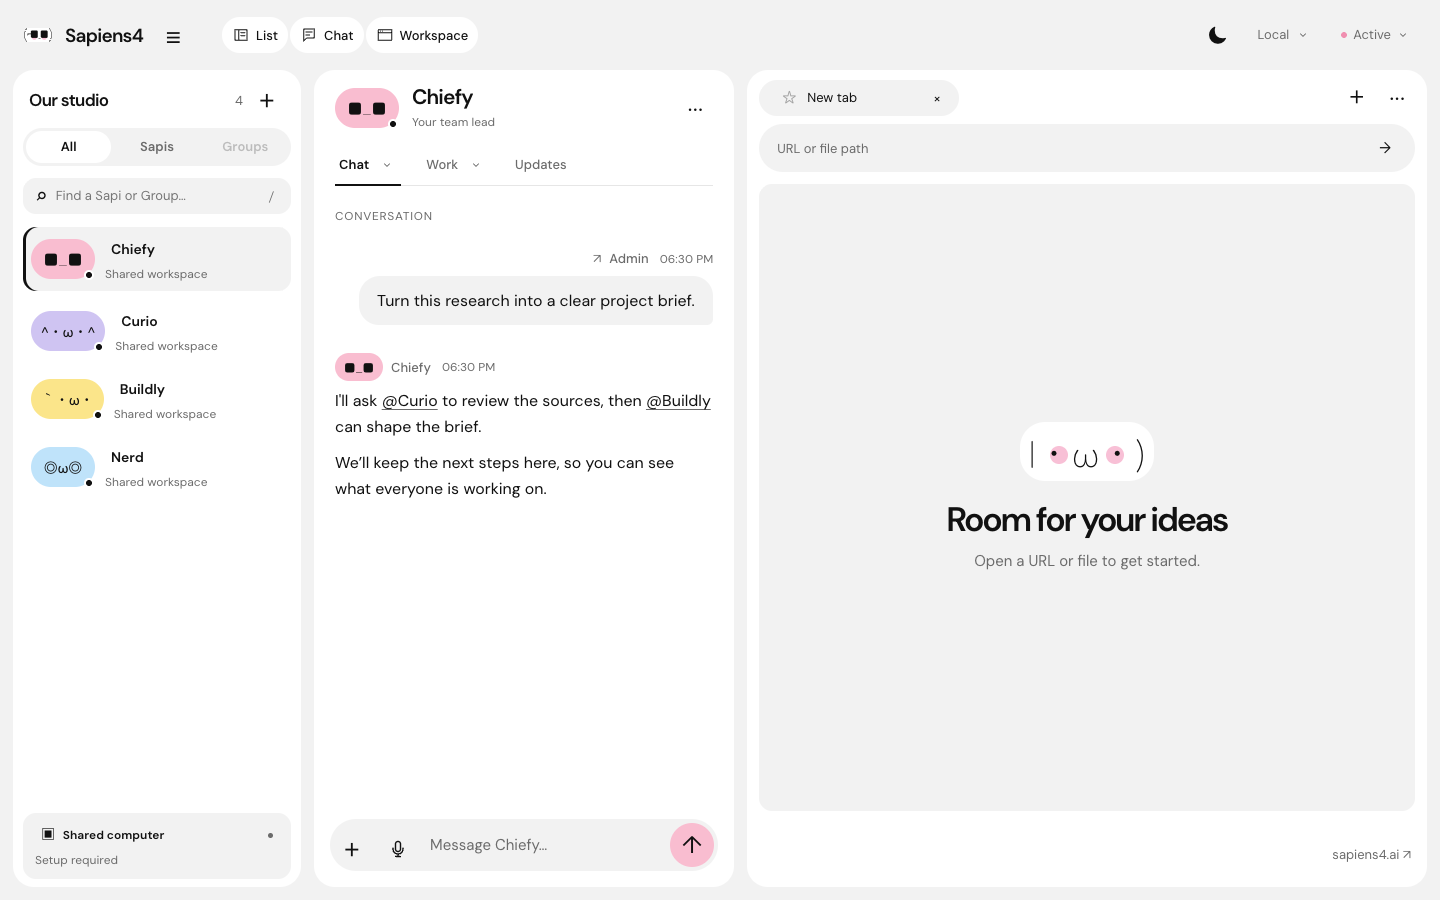
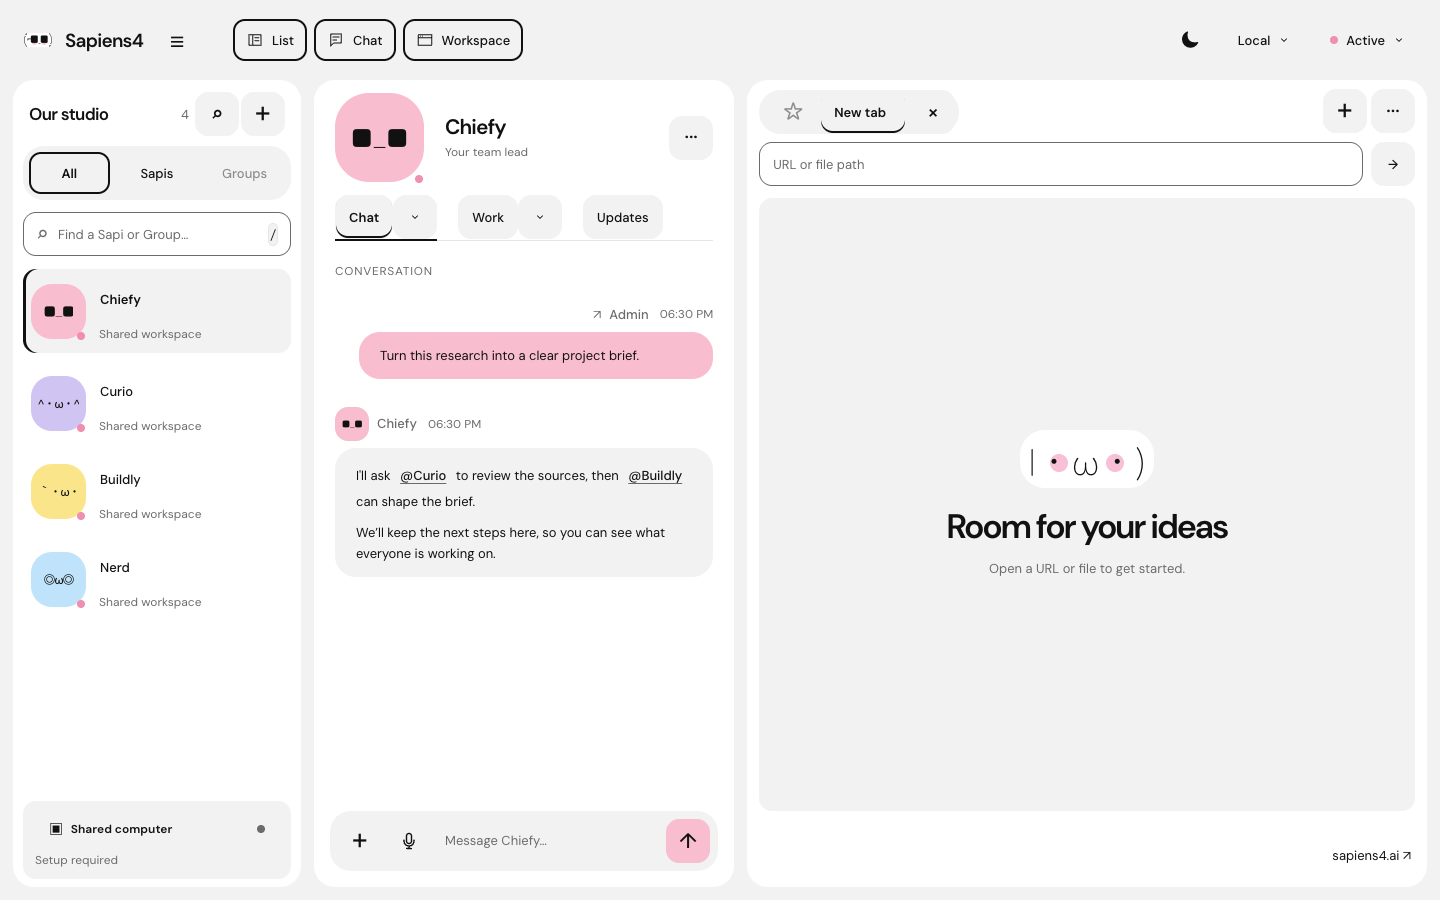
Apply optimized component sizing and live states across the app

diff --git a/app/theme/sapi-theme.css b/app/theme/sapi-theme.css
@@ -356,3 +356,120 @@
 :root[data-theme] body.sapi-workspace[data-mobile-ui] .group-labels.compact .group-chip{width:44px;min-width:44px;height:44px}
 :root[data-theme] body.sapi-workspace[data-mobile-ui] .pane-controls{margin:0}
 :root[data-theme] body.sapi-workspace[data-mobile-ui] .activity-tab>button[data-panel]{font-size:13px}
+
+/* Optimized components from ui-extract.html. Live states use native selectors. */
+:root[data-theme] body.sapi-workspace{--u5:5px;--u8:8px;--u13:13px;--u21:21px;--u34:34px;--u55:55px;--u89:89px;--ui-control:44px;--ui-bg:#f2f2f2;--ui-surface:#fff;--ui-soft:#f2f2f2;--ui-hover:#e6e6e6;--ui-pressed:#e6e6e6;--ui-ink:#111111;--ui-muted:#6b6b6b;--ui-line:#e6e6e6;--ui-field-line:var(--ui-muted);--ui-focus:#111111;--ui-accent:#f9bdd0;--ui-accent-hover:#f08fb0;--ui-accent-pressed:#f08fb0;--ui-error:#111111;--ui-success:#111111;--ui-warning:#111111;--sapi-bg:var(--ui-bg);--sapi-surface:var(--ui-surface);--sapi-soft:var(--ui-soft);--sapi-ink:var(--ui-ink);--sapi-muted:var(--ui-muted);--sapi-line:var(--ui-line);--ink:var(--ui-ink);--muted:var(--ui-muted);--panel:var(--ui-surface)}
+:root[data-theme=dark] body.sapi-workspace{color-scheme:dark;--ui-bg:#111111;--ui-surface:#1c1c1c;--ui-soft:#2a2a2a;--ui-hover:#333333;--ui-pressed:#333333;--ui-ink:#f5f5f5;--ui-muted:#a3a3a3;--ui-line:#333333;--ui-field-line:var(--ui-muted);--ui-focus:#f5f5f5;--ui-accent:#f9bdd0;--ui-accent-hover:#f08fb0;--ui-accent-pressed:#f08fb0;--ui-error:#f5f5f5;--ui-success:#f5f5f5;--ui-warning:#f5f5f5}
+:root[data-theme=light] body.sapi-workspace{color-scheme:light}
+:root[data-theme] body.sapi-workspace :is(button,summary){min-height:44px!important;min-width:44px!important;max-width:100%;height:auto!important;padding:8px 13px!important;gap:8px!important;border:1px solid transparent!important;border-radius:13px!important;background:var(--ui-soft)!important;color:var(--ui-ink)!important;font:500 13px/21px var(--sapi-font)!important;letter-spacing:0!important;box-shadow:none!important;outline:none!important;filter:none!important;transform:none!important;text-shadow:none!important;overflow-wrap:normal}
+:root[data-theme] body.sapi-workspace .button{min-width:71px!important;padding-inline:21px!important}
+:root[data-theme] body.sapi-workspace :is(.icon-button,.send-button,.theme-toggle,.tab-close,.tab-star,.add-tab,.activity-toggle){width:44px!important;height:44px!important;flex:0 0 44px!important;padding:0!important;display:inline-grid!important;place-items:center;font-size:21px!important;line-height:1!important;border-radius:13px!important}
+:root[data-theme] body.sapi-workspace :is(.button.primary,.send-button){background:var(--ui-accent)!important;color:#111111!important}
+:root[data-theme] body.sapi-workspace :is(.model-link,.entity-mention,.task-copy,.ai-provider-back,.agent-name,.corpora-name,.corpora-edit,.group-chip){background:transparent!important}
+:root[data-theme] body.sapi-workspace :is(button[aria-pressed=true],button[aria-selected=true],button[aria-current=true],button.selected,.scope-switch button.active){background:var(--ui-soft)!important;box-shadow:inset 0 0 0 2px var(--ui-ink)!important;font-weight:600!important}
+:root[data-theme] body.sapi-workspace button[aria-expanded=true]{background:var(--ui-hover)!important}
+:root[data-theme] body.sapi-workspace :is(button,summary):hover:not(:disabled){background:var(--ui-hover)!important}
+:root[data-theme] body.sapi-workspace :is(.button.primary,.send-button):hover:not(:disabled){background:var(--ui-accent-hover)!important}
+:root[data-theme] body.sapi-workspace :is(button,summary):active:not(:disabled){background:var(--ui-pressed)!important;box-shadow:inset 0 0 0 1px var(--ui-field-line)!important}
+:root[data-theme] body.sapi-workspace :is(.button.primary,.send-button):active:not(:disabled){background:var(--ui-accent-pressed)!important}
+:root[data-theme] body.sapi-workspace :is(button,summary,a):focus-visible{outline:2px solid var(--ui-focus)!important;outline-offset:3px!important}
+:root[data-theme] body.sapi-workspace :is(button,input,select,textarea):disabled{opacity:.45!important;box-shadow:none!important}
+:root[data-theme] body.sapi-workspace :is(input:not([type=checkbox]):not([type=radio]),textarea,select){width:100%!important;min-width:0!important;min-height:44px!important;padding:10px 13px!important;margin:0!important;border:1px solid var(--ui-field-line)!important;border-radius:13px!important;background:var(--ui-surface)!important;color:var(--ui-ink)!important;font:400 13px/21px var(--sapi-font)!important;box-shadow:none!important;outline:none!important;accent-color:var(--ui-focus)}
+:root[data-theme] body.sapi-workspace :is(input,textarea)::placeholder{color:var(--ui-muted)!important;opacity:1!important}
+:root[data-theme] body.sapi-workspace select[size]{min-height:89px!important;padding:8px!important}
+:root[data-theme] body.sapi-workspace :is(input,select,textarea):hover:not(:disabled){border-color:var(--ui-ink)!important;background:var(--ui-soft)!important}
+:root[data-theme] body.sapi-workspace :is(input,select,textarea):focus-visible{outline:2px solid var(--ui-focus)!important;outline-offset:3px!important;border-color:var(--ui-focus)!important}
+:root[data-theme] body.sapi-workspace :is(input,textarea)[readonly]{background:var(--ui-soft)!important;border-color:var(--ui-line)!important}
+:root[data-theme] body.sapi-workspace [aria-invalid=true]{border-color:var(--ui-error)!important;box-shadow:inset 0 0 0 1px var(--ui-error)!important}
+:root[data-theme] body.sapi-workspace :is(p,.form-hint,.model-hint,.voice-transcript,.voice-hint,.voice-length,.task-assignee,.task-format,.attachment-item,time,label){font:400 13px/21px var(--sapi-font);color:var(--ui-muted)}
+:root[data-theme] body.sapi-workspace :is(.corpora-feedback,.voice-status.failed){color:var(--ui-error)!important}
+:root[data-theme] body.sapi-workspace :is(.tag,.task-state,.relay-badge,.voice-status){font:500 13px/21px var(--sapi-font)!important;padding:5px 8px!important;min-height:31px!important;border-radius:8px!important;background:var(--ui-soft)!important;color:var(--ui-ink)!important;border:0!important}
+:root[data-theme] body.sapi-workspace :is(.task-state.complete,.voice-status.done){color:var(--ui-success)!important}
+:root[data-theme] body.sapi-workspace :is(.task-state.attention,.voice-status.pending){color:var(--ui-warning)!important}
+:root[data-theme] body.sapi-workspace .voice-status.failed{color:var(--ui-error)!important}
+:root[data-theme] body.sapi-workspace .avatar{width:55px!important;height:55px!important;border-radius:21px!important;font-size:16px!important;border:0!important;color:#111111!important}
+:root[data-theme] body.sapi-workspace .avatar.mini{width:34px!important;height:34px!important;border-radius:13px!important;font-size:11px!important}
+:root[data-theme] body.sapi-workspace .avatar.large{width:89px!important;height:89px!important;border-radius:34px!important;font-size:21px!important}
+:root[data-theme] body.sapi-workspace :is(.presence,.connection-dot,.status-dot,.corpora-dot,.voice-dot){width:8px!important;height:8px!important;border:0!important;box-shadow:none!important;border-radius:50%!important}
+:root[data-theme] body.sapi-workspace :is(.telemetry-tooltip,.toast,.app-update-notice){padding:13px 21px!important;border:1px solid var(--ui-line)!important;border-radius:13px!important;background:var(--ui-soft)!important;color:var(--ui-ink)!important;font:400 13px/21px var(--sapi-font)!important;box-shadow:none!important;margin:0!important}
+:root[data-theme] body.sapi-workspace .message-bubble{padding:13px 21px!important;border-radius:21px!important;background:var(--ui-soft)!important;border:0!important;box-shadow:none!important}
+:root[data-theme] body.sapi-workspace .message-bubble p{color:var(--ui-ink)!important}
+:root[data-theme] body.sapi-workspace .message.user .message-bubble{background:var(--ui-accent)!important}.atom-sample .message.user .message-bubble p{color:#111111!important}
+:root[data-theme] body.sapi-workspace a{color:var(--ui-focus)!important;text-decoration:underline;text-underline-offset:3px;font-size:13px;line-height:21px}
+:root[data-theme] body.sapi-workspace a:hover:not(:disabled){text-decoration-thickness:2px;background:var(--ui-soft)!important}
+:root[data-theme] body.sapi-workspace a:active:not(:disabled){background:var(--ui-pressed)!important}
+:root[data-theme] body.sapi-workspace :is(kbd,code,pre){font:400 13px/21px 'IBM Plex Mono',monospace!important;background:var(--ui-soft)!important;color:var(--ui-ink)!important;border:1px solid var(--ui-line)!important;border-radius:5px!important;padding:5px 8px!important}
+:root[data-theme] body.sapi-workspace a:active:not(:disabled){color:var(--ui-ink)!important}
+:root[data-theme] body.sapi-workspace :is(.task-mark,.task-chevron){color:var(--ui-ink)!important}
+:root[data-theme] body.sapi-workspace span.group-chip{color:#111111!important;font:600 13px/21px var(--sapi-font)!important;min-width:34px;min-height:34px;display:inline-grid;place-items:center;border-radius:13px!important}
+:root[data-theme] body.sapi-workspace .message.user .message-bubble p{color:#111111!important}
+:root[data-theme] body.sapi-workspace :is(button[aria-pressed=true],button[aria-selected=true],button.selected):active:not(:disabled){box-shadow:inset 0 0 0 2px var(--ui-ink)!important}
+:root[data-theme] body.sapi-workspace span.group-chip{background:var(--group-color)!important}
+:root[data-theme] body.sapi-workspace :is(.task-state.attention,.voice-status.pending){background:#fbe58a!important;color:#111111!important}
+:root[data-theme] body.sapi-workspace :is(.voice-status.failed){background:#f9bdd0!important;color:#111111!important}
+:root[data-theme] body.sapi-workspace :is(.task-state.complete,.voice-status.done){background:#cfc4f2!important;color:#111111!important}
+:root[data-theme] body.sapi-workspace :is(.presence,.connection-dot,.status-dot,.corpora-dot,.voice-dot){background:#f08fb0!important}
+:root[data-theme] body.sapi-workspace :is(.presence.idle,.status-dot.idle,[data-online=false] .connection-dot,.corpora-dot[data-active=false]){background:var(--ui-muted)!important}
+:root[data-theme] body.sapi-workspace .presence.busy{background:#fbe58a!important}
+:root[data-theme] body.sapi-workspace .ai-provider-icon{filter:none!important;background:#ffffff;border-radius:8px;padding:3px}
+
+/* Integration: preserve live layout, hidden states, scrolling, and native controls. */
+:root[data-theme] body.sapi-workspace.sapi-workspace :is(button,input,select,textarea,summary){transition:background-color 120ms ease,border-color 120ms ease,box-shadow 120ms ease}
+:root[data-theme] body.sapi-workspace.sapi-workspace :is(.corpora-popover,.browser-menu,.activity-menu,.mention-suggestions){padding:5px;border-radius:13px;border:1px solid var(--ui-line);background:var(--ui-surface)}
+:root[data-theme] body.sapi-workspace.sapi-workspace .activity-menu button{width:100%;text-align:left}
+:root[data-theme] body.sapi-workspace.sapi-workspace :is(.scope-switch,.settings-tabs,.pane-controls){gap:5px;padding:5px;border-radius:21px}
+:root[data-theme] body.sapi-workspace.sapi-workspace :is(.pane-toggle,.resource-open){min-width:44px!important;min-height:44px!important}
+:root[data-theme] body.sapi-workspace.sapi-workspace :is(input[type=checkbox],input[type=radio]){width:21px;height:21px;min-width:21px;min-height:21px;margin:0;accent-color:var(--ui-ink);flex-shrink:0}
+:root[data-theme] body.sapi-workspace.sapi-workspace :is(.telemetry-consent,.relay-check,.group-members label,.corpora-archive-toggle){min-height:44px;gap:13px;align-items:center}
+:root[data-theme] body.sapi-workspace.sapi-workspace .form-stack{gap:21px}
+:root[data-theme] body.sapi-workspace.sapi-workspace .form-stack label{gap:8px;color:var(--ui-ink)}
+:root[data-theme] body.sapi-workspace.sapi-workspace .form-stack textarea{min-height:144px;resize:vertical}
+:root[data-theme] body.sapi-workspace.sapi-workspace :is(.search-field,.browser-address-bar){padding:0;border:0;background:transparent}
+:root[data-theme] body.sapi-workspace.sapi-workspace .search-field{position:relative;gap:0}
+:root[data-theme] body.sapi-workspace.sapi-workspace .search-field input{padding-left:34px!important;padding-right:34px!important}
+:root[data-theme] body.sapi-workspace.sapi-workspace .search-field>span{position:absolute;left:13px;pointer-events:none}
+:root[data-theme] body.sapi-workspace.sapi-workspace .search-field>kbd{position:absolute;right:13px;pointer-events:none;padding:0!important}
+:root[data-theme] body.sapi-workspace.sapi-workspace .search-field:focus-within{outline:none;box-shadow:none}
+:root[data-theme] body.sapi-workspace.sapi-workspace .composer{padding:8px;gap:5px;align-items:end;border-radius:21px;background:var(--ui-soft)}
+:root[data-theme] body.sapi-workspace.sapi-workspace .composer textarea{padding:10px 8px!important;min-height:44px!important;height:44px;max-height:144px;border-color:transparent!important;background:transparent!important;resize:none}
+:root[data-theme] body.sapi-workspace.sapi-workspace .composer:focus-within{outline:2px solid var(--ui-focus);outline-offset:3px}
+:root[data-theme] body.sapi-workspace.sapi-workspace .composer textarea:focus-visible{outline:none!important}
+:root[data-theme] body.sapi-workspace.sapi-workspace .browser-address-bar{gap:8px}
+:root[data-theme] body.sapi-workspace.sapi-workspace .group-labels.compact .group-chip{width:44px;min-width:44px;height:44px;margin:0}
+:root[data-theme] body.sapi-workspace.sapi-workspace .group-labels.compact{height:auto;max-width:44%;gap:5px}
+:root[data-theme] body.sapi-workspace.sapi-workspace .group-chip{color:#111111!important;background:var(--group-color)!important}
+:root[data-theme] body.sapi-workspace.sapi-workspace .avatar{min-width:55px!important;flex-shrink:0;background:var(--avatar-color)!important;letter-spacing:0}
+:root[data-theme] body.sapi-workspace.sapi-workspace .avatar.mini{min-width:34px!important}
+:root[data-theme] body.sapi-workspace.sapi-workspace .avatar.large{min-width:89px!important}
+:root[data-theme] body.sapi-workspace.sapi-workspace .avatar.group-avatar{background:var(--ui-accent)!important}
+:root[data-theme] body.sapi-workspace.sapi-workspace .agent-row{padding:8px;gap:13px;min-height:71px}
+:root[data-theme] body.sapi-workspace.sapi-workspace .agent-row.active{box-shadow:inset 3px 0 var(--ui-ink)}
+:root[data-theme] body.sapi-workspace.sapi-workspace .agent-name{padding:0!important;text-align:left;min-height:44px!important}
+:root[data-theme] body.sapi-workspace.sapi-workspace .agent-heading{gap:21px;padding-bottom:13px}
+:root[data-theme] body.sapi-workspace.sapi-workspace .activity-tab{min-width:0}
+:root[data-theme] body.sapi-workspace.sapi-workspace .activity-tab>button[data-panel]{flex:1;min-width:0!important}
+:root[data-theme] body.sapi-workspace.sapi-workspace .activity-tab.active>button[data-panel]{box-shadow:inset 0 -2px var(--ui-ink)!important}
+:root[data-theme] body.sapi-workspace.sapi-workspace .workspace-tab{gap:5px}
+:root[data-theme] body.sapi-workspace.sapi-workspace .workspace-tab .tab-select{min-width:0!important}
+:root[data-theme] body.sapi-workspace.sapi-workspace .workspace-tab.active .tab-select{box-shadow:inset 0 -2px var(--ui-ink)!important}
+:root[data-theme] body.sapi-workspace.sapi-workspace :is(.task-summary,.event-row>summary){padding:13px!important;gap:13px!important;border-radius:13px!important}
+:root[data-theme] body.sapi-workspace.sapi-workspace :is(.task-summary,.event-row>summary):focus-visible{outline-offset:-3px!important}
+:root[data-theme] body.sapi-workspace.sapi-workspace .wordmark{background:transparent!important;color:var(--ui-ink)!important;text-decoration:none}
+:root[data-theme] body.sapi-workspace.sapi-workspace :is(.corpora-empty .primary,#mobile-install-action,#install-app,#paste-invitation>button[type=submit]){background:var(--ui-accent)!important;color:#111111!important}
+:root[data-theme] body.sapi-workspace.sapi-workspace :is(.corpora-empty .primary,#mobile-install-action,#install-app,#paste-invitation>button[type=submit]):hover:not(:disabled){background:var(--ui-accent-hover)!important}
+:root[data-theme] body.sapi-workspace.sapi-workspace [hidden]{display:none!important}
+@media(max-width:600px){
+ :root[data-theme] body.sapi-workspace.sapi-workspace .activity-tab>button[data-panel]{padding-inline:5px!important}
+ :root[data-theme] body.sapi-workspace.sapi-workspace .pane-controls{gap:0;padding:0}
+ :root[data-theme] body.sapi-workspace.sapi-workspace .pane-toggle{padding:0!important;width:44px!important}
+ :root[data-theme] body.sapi-workspace.sapi-workspace .agent-heading{gap:13px}
+ :root[data-theme] body.sapi-workspace.sapi-workspace .agent-heading .avatar.large{width:55px!important;height:55px!important;min-width:55px!important;border-radius:21px!important;font-size:16px!important}
+}
+@media(prefers-reduced-motion:reduce){:root[data-theme] body.sapi-workspace.sapi-workspace *{transition:none!important;animation:none!important}}
+
+/* Inline text actions keep paragraph flow; surrounding controls remain 44px. */
+:root[data-theme] body.sapi-workspace.sapi-workspace .message-bubble .entity-mention{display:inline!important;min-width:0!important;min-height:24px!important;padding:2px 5px!important;line-height:24px!important;border-radius:5px!important;vertical-align:baseline}
+:root[data-theme] body.sapi-workspace.sapi-workspace .avatar{padding:0!important}
+:root[data-theme] body.sapi-workspace.sapi-workspace .agent-name[aria-current=true]{box-shadow:none!important;background:transparent!important}
+:root[data-theme] body.sapi-workspace.sapi-workspace .avatar:not(.large):not(.mini)>span{font-size:12px;letter-spacing:-1px}
+:root[data-theme] body.sapi-workspace.sapi-workspace .avatar.mini>span{font-size:8px;letter-spacing:-.5px}

diff --git a/docs/art-direction.md b/docs/art-direction.md
@@ -21,13 +21,31 @@ and Nerd `#BFE3FA` stay identical in both themes. Text on pastel surfaces is
 always `#111111`. Blush is decorative progress color, never body text.
 
 Cards and dialogs use 21px radii; fields, rows and inset surfaces use 13px;
-buttons, chips and composers use pill shapes. Activity navigation uses compact
+buttons use 13px rounded corners, badges use 8px, and composers use 21px. Activity navigation uses
 underlined tabs to distinguish navigation from selection controls. Panes are separated by 13px
 of ground, with no dividing borders. Visible panes alone receive grid tracks.
 
 DM Sans is the interface font, Zen Maru Gothic is the face font (300 for artwork,
 500 for chips), and IBM Plex Mono is the code font. All four WOFF2 files are
 bundled with their full glyph sets. Font licenses ship in `license/fonts/`.
+
+## Optimized component system
+
+The reviewed `ui-extract.html` component sheet supplies the geometry and palette
+for the live controls. Shared rules cover buttons, fields, menus, tabs, avatars,
+attachments, voice controls, tooltips, badges, and disclosures across features.
+
+- Spacing follows 5/8/13/21/34/55/89px intervals. Actionable controls are at least
+  44px high; inline mentions retain a 24px text target to preserve paragraph flow.
+- Avatars use 34/55/89px sizes, with the large header avatar reduced to 55px on
+  narrow screens. Fields and buttons share a 13px radius and 13px/21px text.
+- Hover, press, selection, keyboard focus, disabled and invalid states use the
+  reference colors. Selection has an ink mark; focus has a 2px ink outline.
+  Status labels and symbols distinguish outcomes without requiring color.
+- Live controls use native hover/focus/active selectors; the sheet's inert/static
+  preview attributes and gallery wrappers are not included in the application.
+- Native checkbox/radio behavior, hidden states, scroll containers and responsive
+  layout are preserved. Reduced-motion settings suppress control transitions.
 
 ## Components
 
